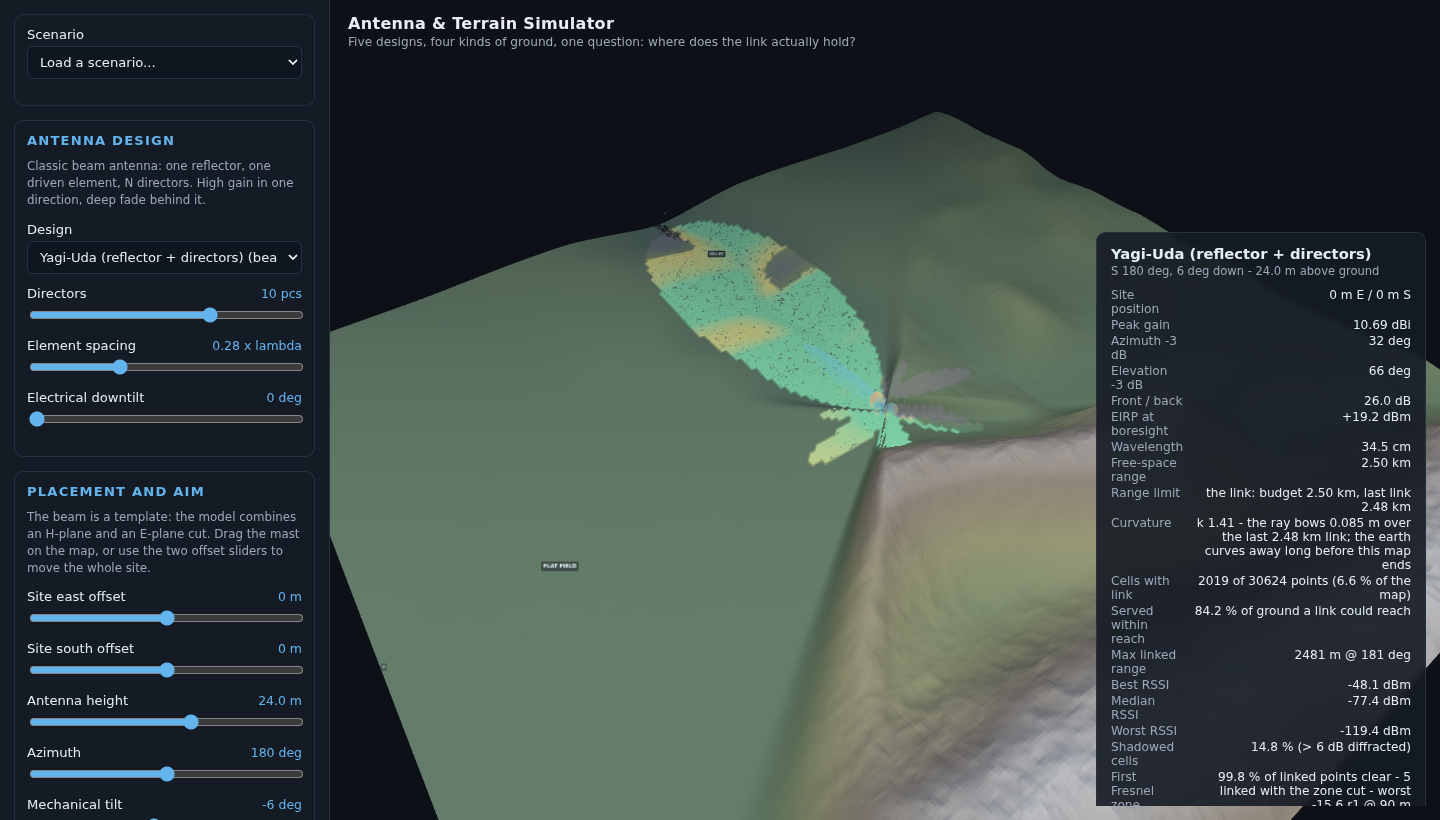
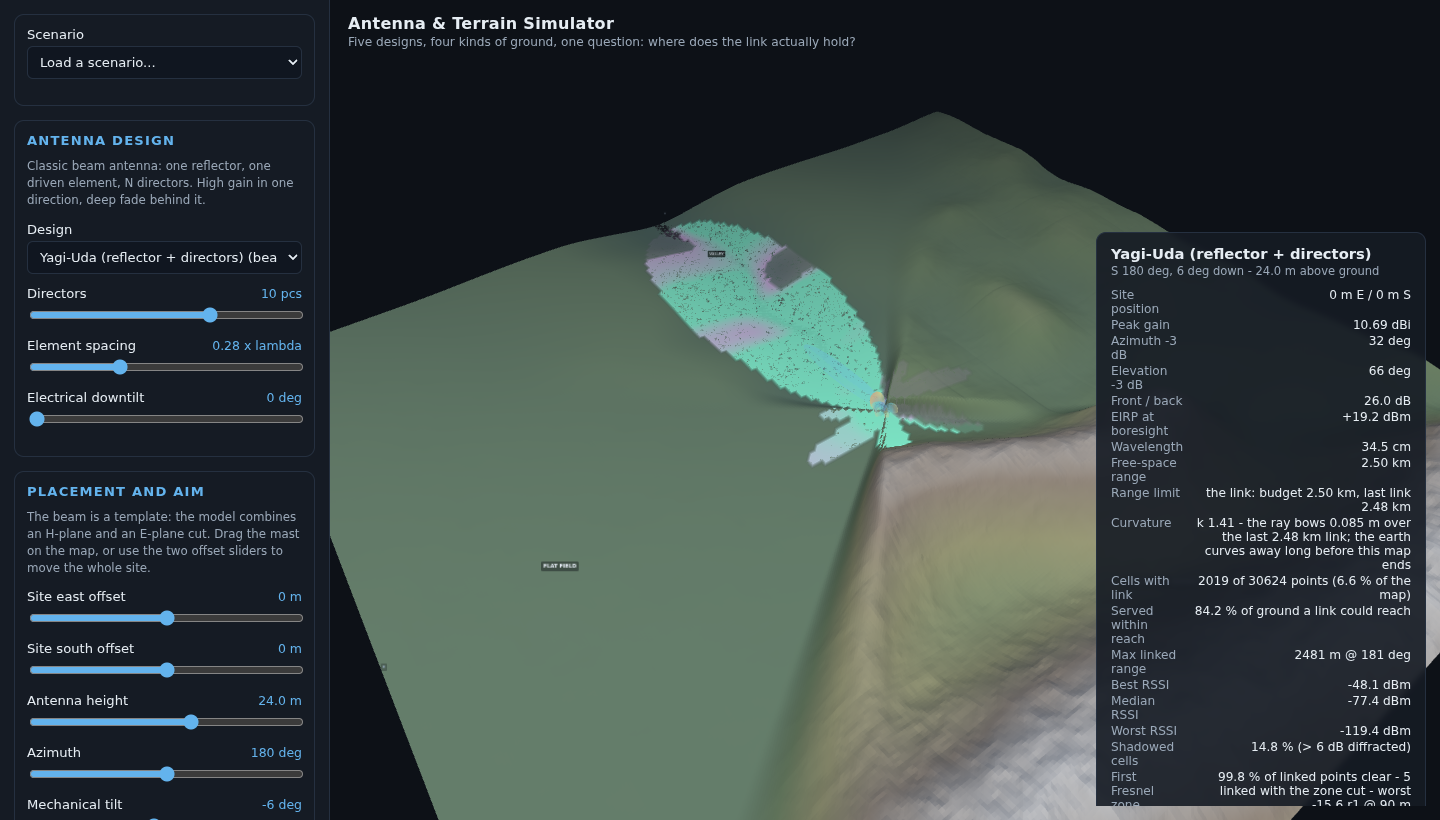
taskman: complete step-012 - README describes two views and four measured steps
Screenshots retaken and read back before captioning; docs/screenshot-bands.png replaced by
docs/screenshot-zone.png so the pair table shows two views that genuinely differ. The valley
caption's bare patch is now measured: 16 cells at 150-152 deg, 1518 m, ground 442 m above the ray.

Changed region(s): [[0.4375, 0.2744, 0.6562, 0.5793]]

diff --git a/README.md b/README.md
@@ -15,12 +15,13 @@ it, while the mountain, the valley and every other hill stay exactly where they
 are: the map never reshapes itself to suit the antenna. Put the mast on a ridge and
 it stands on the ridge, with the ground falling away beside it.
 
-![An omni dipole at the centre of a 5.2 km map, painted in the range gradient: a warm
-core right at the mast, pale yellow arms where the link still has room, and pink for the
-points that only just make the receiver - 770 of the 836 linked cells, because this budget
+![An omni dipole at the centre of a 5.2 km map, painted in the four signal steps: yellow
+right at the mast where the link has 8 dB or more to spare over the receiver, then orange,
+then red, and crimson for the points that only just make it - 105, 300, 253 and 178 cells
+respectively of the 836 that link, because this budget
 is 0.94 km and there is nowhere to hide. The wedge missing on the right is the west: this
 antenna is omnidirectional, so a direction with no colour is ground, not gain (0 % of the
-walked points link in each of SW, W and NW). The wide translucent band beyond the pink is
+walked points link in each of SW, W and NW). The wide translucent band beyond the crimson is
 ground the sweep asked about and lost to the terrain, painted faint on purpose; beyond that
 the map is bare, because the antenna's own budget cannot reach it and it was never measured.
 The read-out says the same thing in words: "the link: budget 0.94 km, last link 0.94 km",
@@ -74,8 +75,8 @@ an edited import map, and `npm run vendor` tells you which.
   the terrain actually is - so the far side of a ridge goes dark. The map is 5.2 km
   across, the ground is sampled every 15 m and the coverage every 30 m, and the sweep
   looks at the **whole map**, not a disc around the mast. One control, *Coverage view*,
-  decides what the colours mean - signal bands, a continuous range gradient, or first
-  Fresnel zone clearance ([What the colours can mean](#what-the-colours-can-mean)).
+  decides what the colours mean - the four signal steps, or first Fresnel zone clearance
+  ([What the colours can mean](#what-the-colours-can-mean)).
   Whatever you pick, three *opacity* meanings stay the same: solid where a link works, a
   faint wash where the sweep asked and the terrain defeated the link, and no paint at all
   where the free-space budget cannot reach the receiver - ground that was never consulted,
@@ -89,8 +90,8 @@ an edited import map, and `npm run vendor` tells you which.
   in the Display group draws a semi-transparent tube along the boresight - the first
   Fresnel zone of a reference link from the mast to where the beam lands. It is only the
   tube. Which language the coverage drape is painted in is the *Coverage view* select
-  above it, and setting that to *Fresnel zone clearance* colours the map green where the
-  ground leaves the zone clear, amber where it eats into it, purple where it stands above
+  above it, and setting that to *Fresnel zone clearance* colours the map mint where the
+  ground leaves the zone clear, lilac where it eats into it, deep violet where it stands above
   the ray. The two are separate switches because the volume and the verdict answer
   different questions, and because a toggle that also repaints the map is a control whose
   label lies after the second click.
@@ -110,18 +111,19 @@ across the eight compass sectors (N, NE, E, SE, S, SW, W, NW) showing how much o
 each sector has a link and how far that link reaches - a range printed as `>= 1400 m`
 was still alive where we stopped looking.
 
-Below the numbers is the legend. In the **signal bands** view it is four colour bands and
-a faint row, keyed to your receiver sensitivity (at the default −80 dBm that is
-`>= -35 dBm`, `>= -50`, `>= -65`, `>= -80`, then `< -80 dBm (faint: terrain stops the
-link)`), plus a row for the bare "out of budget - not measured, not painted" area.
+Below the numbers is the legend. In the **signal steps** view it is four colour rows and a
+faint one, keyed to your receiver sensitivity (at the default −80 dBm that is
+`comfortable: >= -72 dBm`, `good: >= -77`, `marginal: >= -79`, `at the limit: >= -80`, then
+`< -80 dBm (faint: terrain stops the link)`), plus a row for the bare "out of budget - not
+measured, not painted" area.
 Changing sensitivity moves the boundaries - the colours mean "margin over what the client
-can hear", not "signal quality" in the abstract. In the **range gradient** view the same
-ground is counted three ways instead of four, against the ramp's own scale: on the default
-map 8 points have 20 dB or more to spare, 58 have 10-20, 770 have 0-10, 1992 were measured
-and lost, and 27 796 were never measured. In the **zone** view it is three rows - cut,
-partly cut, clear - quoting the receiver height the verdict was computed for, plus the
+can hear", not "signal quality" in the abstract. On the default map those four rows hold
+105, 300, 253 and 178 cells, 1992 were measured and lost, and 27 796 were never measured. In
+the **zone** view it is three rows - cut,
+partly cut, clear - quoting the receiver height the verdict was computed for (1159, 589 and
+1080 of the 2828 paths the ground was asked about, on that same default map), plus the
 same unmeasured row and a line saying that faint means measured-and-failed. Every legend
-row is a count, and the counts of any of the three legends add up to the same 30 624
+row is a count, and the counts of either legend add up to the same 30 624
 points the sweep can account for: a legend that describes different pixels to the ones
 under it is a bug, and there is a test for it.
 
@@ -136,7 +138,7 @@ Left panel, top to bottom:
 | **Placement and aim** | Site position: east offset and south offset, −2500 to +2500 m in 5 m steps (the same numbers a drag writes). Height above ground (0.5–40 m, measured from the ground under the mast), azimuth (0–360°, 0 = north), mechanical tilt (−60° to +60°, negative is downtilt). |
 | **Radio and link budget** | Band (433 / 868 / 915 / 2400 / 5800 MHz), transmitter power (−10…43 dBm), feeder loss, receiver sensitivity, zone receiver height, study range (100 m to 6 km), clutter loss, and *Terrain shadowing (diffraction loss)* - off means the decibels ignore the ground, while the zone verdict and the earth's curvature are still walked over it. |
 | **Terrain** | The terrain seed. Same seed always gives the same ground. |
-| **Display** | Coverage overlay, coverage view (bands / range gradient / Fresnel zone clearance), radiation pattern, Fresnel zone volume, terrain mesh, zone labels. |
+| **Display** | Coverage overlay, coverage view (signal steps / Fresnel zone clearance), radiation pattern, Fresnel zone volume, terrain mesh, zone labels. |
 
 Buttons: **New terrain** (fresh random seed), **Reset view** (camera back to
 start, centred on the site), **Reset placement** (site back to the middle of the
@@ -192,7 +194,7 @@ http://localhost:8080/?design=yagi&seed=1234&height=24&azimuth=180&tilt=-6&siteX
 | `siteX`, `siteZ` | site position east / south, metres | off the map centre; both default to 0 |
 | `frequency` | band in MHz | `433`, `868`, `915`, `2400`, `5800` |
 | `sensitivity`, `range` | receiver sensitivity (dBm), study range (m) | both clamped to what the model allows, and the clamp is reported - see below |
-| `view` | how the coverage is painted | `bands`, `gradient`, `zone` |
+| `view` | how the coverage is painted | `steps`, `zone`. `bands` and `gradient` - the two signal views this app used to have - are still taken as `steps`, so old links land on the picture they meant |
 | `fresnel` | the Fresnel-zone volume, and the view that goes with it | `fresnel=1` turns the tube on **and** sets `view=zone`; `view` alone changes the colours without the tube |
 | `manual`, `nohud` | testing aids: no animation loop, no read-out panel | |
 
@@ -204,10 +206,13 @@ widest work area there is, past the map itself - and 2500 m of east offset, and 
 
 ![The same map in the *Reach down the valley* scenario: a 10-director Yagi 24 m above the
 centre, azimuth 180 and 6 deg of mechanical tilt, so the beam runs down the valley to the
-south - the drape is a tongue, not a disc. 19 cells have 20 dB or more to spare (the warm
-core at the mast), 209 have 10-20 dB along the valley floor, and 1791 are the dying pink rim
-that ends at 2481 m on a bearing of 181 deg against a 2.50 km free-space budget: the picture
-ends in the middle of the map, not at its edge. The rising ground behind the mast stays
+south - the drape is a tongue, not a disc. 355 cells have 8 dB or more to spare (the yellow
+at the mast), 736 have 3-8 dB down the valley floor, 586 have 1-3 dB, and 342 are the
+crimson rim that ends at 2481 m on a bearing of 181 deg against a 2.50 km free-space budget:
+the picture
+ends in the middle of the map, not at its edge. The pale patch inside the tongue is ground
+the sweep asked and lost: 16 cells on a bearing of 150-152 deg at 1.5 km, where the flank
+stands 442 m above the ray and the link is 35 dB short. The rising ground behind the mast stays
 bare, and the read-out says so - 2019 of 30624 points, 84.2 % of the ground a link could
 reach.](docs/screenshot-valley.png)
 
@@ -370,7 +375,7 @@ Beyond the budget radius the app does not walk a ray; it stores the free-space u
 bound and paints nothing. That is a shortcut, not an approximation: diffraction and
 clutter can only subtract, so if free space alone already misses your sensitivity the
 ground cannot rescue the link. `coverage: the budget pre-filter cannot move the link
-boundary` proves it on the real map - same linked set, same bands, bit-identical
+boundary` proves it on the real map - same linked set, same steps, bit-identical
 decibels at every walked point, and every dismissed point demonstrably unreachable.
 
 ### Antenna physics: why a wide antenna cannot have long reach
@@ -414,37 +419,65 @@ is where you see which of them is answering.
 
 ### What the colours can mean
 
-One control, three views, and only the *colour* of a cell changes between them. The
-alpha channel - solid, faint, blank - is the same in all three, because that part of the
+One control, two views, and only the *colour* of a cell changes between them. The
+alpha channel - solid, faint, blank - is the same in both, because that part of the
 message is not a matter of taste.
 
 | View | A cell's colour answers | Scale |
 | --- | --- | --- |
-| **signal bands** | which of four RSSI steps is this point in? | keyed to your receiver sensitivity: `+45`, `+30`, `+15`, `0 dB` above it |
-| **range gradient** | how much room does this link have left? | continuous yellow through pale yellow to pink, `0` to `30 dB` of margin over the receiver |
-| **Fresnel zone clearance** | how much of the first Fresnel zone has the ground left me? | purple (zone cut) through amber (partly cut) to green (`>= 60 %` clear) |
+| **signal steps** | how much room does this link have left? | four steps keyed to your receiver sensitivity: `>= +8`, `>= +3`, `>= +1`, `>= 0 dB` over it |
+| **Fresnel zone clearance** | how much of the first Fresnel zone has the ground left me? | deep violet (zone cut) through lilac (partly cut) to mint (`>= 60 %` clear) |
 
-The gradient is there because the bands hide the thing people actually read off a map. On
-the default configuration the banded view paints 816 of the 836 linked cells in *one*
-colour (the remaining 20 are a band higher); the gradient splits the same 816 into 8 strong,
-58 weaker and 770 at the limit, and that split is the difference between "it links"
-and "it links, this far, with this much to spare".
+The signal scale is four flat steps - yellow, orange, red, crimson - and it replaced two
+views that both shipped with passing tests and neither of which could be read.
 
-| ![The valley scenario in the signal-bands view: 1958 of its 2019 linked points are one colour, because they all land between -80 and -65 dBm; 59 are a band brighter, 2 two bands above that. The read-out is identical to the gradient picture - best -48.1, median -77.4, worst -119.4 dBm - because a view changes a cell's colour and nothing else.](docs/screenshot-bands.png) | ![The same scenario, same sweep, same 2019 linked points, in the range gradient: 19 strong near the mast, 209 with room to spare, 1791 at the dying pink rim, and a warm core you can only see once the bands are taken away.](docs/screenshot-valley.png) |
+The **signal bands** were honest but useless: keyed to `+45 / +30 / +15 / 0 dB`, they put
+816 of the default map's 836 linked cells - 97.6 % - in one colour, because margin over a
+real receiver is *small* on any map a person is looking at. The median linked cell has
+2.9 dB of room on the default map and 2.9-5.1 dB on the five scenarios; 78-92 % of linked
+cells are under 10 dB on all six. A scale whose interesting end nobody visits is not a scale.
+
+The **range gradient** was worse. Its three stops sat at L\* 76 / 89 / 76: the two ends of
+the scale were 0.4 apart in lightness and its middle was the brightest pixel on the map, so
+the ramp had no direction to read, and under a deuteranopic model it separated 23 % of the
+pairs of cells on a default map. It also hid the one thing a stepped scale says plainly:
+whether a point is comfortable or is hanging on by a decibel.
+
+| ![The valley scenario in the signal steps: 355 of its 2019 linked points have 8 dB or more to spare and are yellow at the mast, 736 are orange, 586 red and 342 the crimson rim that dies at 2481 m. The read-out is identical to the zone picture below - best -48.1, median -77.4, worst -119.4 dBm - because a view changes a cell's colour and nothing else.](docs/screenshot-valley.png) | ![The same scenario, same sweep, same 2019 linked points, in the Fresnel zone view: mint where the ground leaves the first zone clear, lilac where it eats into it, deep violet where the ground stands above the ray. Almost the whole tongue is mint, because the question here is not how loud the signal is but whether the ground is in the way - an open valley is good real estate, and 99.8 % of the linked points keep the zone clear.](docs/screenshot-zone.png) |
 | --- | --- |
-| *signal bands* | *range gradient* |
+| *signal steps* | *Fresnel zone clearance* |
 
-The scale is deliberately absolute:
-`RF.gradientMaxMarginDb` is 30 dB of margin, not "the best cell on this map", because a
-ramp that quietly re-normalises itself to whatever is on screen makes two screenshots of
-two different links incomparable. 30 dB is measured, not chosen - over the ground a link
-actually lights up, margin spans 0-30 dB on the default dipole, 0-34 on the flat-field
-scenario and 12-107 on the loudest link the panel allows, and a top of 45 painted nearly
-every map pink.
+The steps are measured in CIEDE2000, the colour difference that means "an eye sees a
+difference", under four models of colour vision:
 
-The three views are presentation, not physics, and one browser test insists:
+- neighbours are 22.8, 24.8 and 24.4 apart going from yellow down to crimson, and no two
+  neighbours fall below **11.5** in any eye tested (normal, deuteranopia, protanopia,
+  tritanopia) - twice the ten or so where two patches become two colours;
+- lightness falls **93 / 74 / 53 / 31 L\*** as the margin runs out, so the order survives even
+  where the hue does not: more signal is always the brighter, warmer end;
+- every step stays at least **24** from the bare terrain it is draped on, and from the faint
+  asked-and-lost wash it must never be mistaken for;
+- the two views share no colour: the closest pair across them is **15.7** apart.
+
+Four is the most this colour path carries, and that is a measurement as well. Ordering a
+scale by lightness is what keeps it readable when red-green colour vision is missing, and
+the best gap obtainable on a red-through-yellow ramp is 19.5 / 12.5 / 9.5 for 3 / 4 / 5
+steps. A fifth step would be a colour you cannot tell from its neighbour - which is exactly
+how the gradient managed to look like one wash.
+
+The thresholds are deliberately absolute: `RF.levelMarginsDb` is 8 / 3 / 1 / 0 dB over
+your own receiver sensitivity, not "the best cell on this map", because a scale that quietly
+re-normalises itself to whatever is on screen makes two screenshots of two different links
+incomparable. They are placed on the measured margin distribution of all six shipped
+configurations, where the busiest step then holds 35-40 % of the linked cells and the median
+linked cell lands in a middle step. One configuration is deliberately outside that: the
+loudest link the panel allows (43 dBm into a -124 dBm receiver) is 100 % comfortable
+everywhere, and paints 30 624 yellow cells, because that link really does have 38 dB of room
+at the far corner of the map.
+
+The two views are presentation, not physics, and one browser test insists:
 `browser: the coverage view repaints the drape, and no view changes a decibel` walks
-`gradient -> bands -> zone -> gradient` and asserts that the whole coverage statistics
+`steps -> zone -> steps` and asserts that the whole coverage statistics
 object is `deepEqual` at every stop, while the pixels do move. Switching a view repaints
 the grid the sweep already computed; it does not run a second model.
 
@@ -552,9 +585,9 @@ largest zone the antenna has to keep clear anywhere it is looking. Its radius is
 widened by a fixed factor so it is visible next to a five-kilometre map; at
 `FRESNEL.radialExaggeration: 1` you would see the truth, which is a hairline.
 
-![The same valley scenario again, this time in the Fresnel-zone view: the drape is green where the ground leaves the first zone clear and amber where it eats into it, with a few purple patches where the ground stands above the ray - 99.8 % of the 2019 linked points are clear and only 5 are cut, because an open valley is good real estate - and the pale translucent band running out along the beam is the first-zone volume itself. Every number in the read-out is identical to the valley pictures above: this is a different question about the same sweep.](docs/screenshot-fresnel.png)
+![The same valley scenario again, this time in the Fresnel-zone view: the drape is mint where the ground leaves the first zone clear and lilac where it eats into it, with a few deep violet patches where the ground stands above the ray - 99.8 % of the 2019 linked points are clear and only 5 are cut, because an open valley is good real estate - and the pale translucent band running out along the beam is the first-zone volume itself. Every number in the read-out is identical to the valley pictures above: this is a different question about the same sweep.](docs/screenshot-fresnel.png)
 
-Green keeps at least 60 % of the first zone clear, amber is partly cut, purple is
+Mint keeps at least 60 % of the first zone clear, lilac is partly cut, deep violet is
 cut outright - the ground stands above the ray. The zone legend also carries the
 "out of budget - not measured, not painted" row and a line saying that its three rows
 count every path the ground was asked about, link or no link: the faint rim is a measured

diff --git a/.taskman/stepped-coverage-colours/step-012/step.md b/.taskman/stepped-coverage-colours/step-012/step.md
@@ -21,3 +21,27 @@ README describes the four steps with re-measured numbers and no stale colour cla
 ## Step comments
 
 <!-- Step-specific details found during execution are appended here as bullet points. This section starts empty and is append-only. -->
+
+- README rewritten around the stepped scale: hero caption, the *Coverage view* bullet, the
+  zone-colour bullet, the legend paragraphs, the Display and URL tables, the valley picture
+  caption, and the whole "What the colours can mean" section.
+- `docs/screenshot-bands.png` is gone and `docs/screenshot-zone.png` is new. The two-signal-views
+  pair table no longer makes sense with one signal view; the pair is now *signal steps* against
+  *Fresnel zone clearance* over the same sweep, which is the claim the table was really there for
+  (a view changes a cell's colour and nothing else) and the two pictures now differ visibly,
+  which the old bands/gradient pair did not.
+- All four shots were re-taken at 1440x820 and read back before writing a word of caption. Every
+  read-out digit in them matches the reference numbers measured during the propagation task:
+  default 836 of 30624 / 29.6 % / 936 m @ 153 deg / -50.1, -90.2, -116.7 dBm / 73.7 % / 87.9 %;
+  valley 2019 of 30624 / 84.2 % / 2481 m @ 181 deg / -48.1, -77.4, -119.4 dBm / 99.8 %.
+- One caption claim was measured rather than remembered. The pale patch inside the valley tongue
+  could have been anything; `.tmp/valley-hole.mjs` says 16 asked-and-lost cells on a bearing of
+  150-152 deg at 1518 m, where the ground stands 442 m above the ray and the link is 35 dB short.
+  (The old caption's "19 strong, 209 with room, 1791 at the dying pink rim" was the retired
+  gradient's thirds, so it could not survive; "the rising ground behind the mast stays bare"
+  still holds and stayed.)
+- Superseded numbers are quoted with their config, not laundered: 816/836 = 97.6 % of the default
+  map's linked cells in one band; the gradient's stops at L* 76/89/76 with its ends 0.4 apart;
+  23 % of cell pairs separated under deuteranopia. The paragraph saying the bands were "honest but
+  useless" and the gradient "worse" is now the README's explanation of why the scale changed, so a
+  future reader does not reintroduce either.
